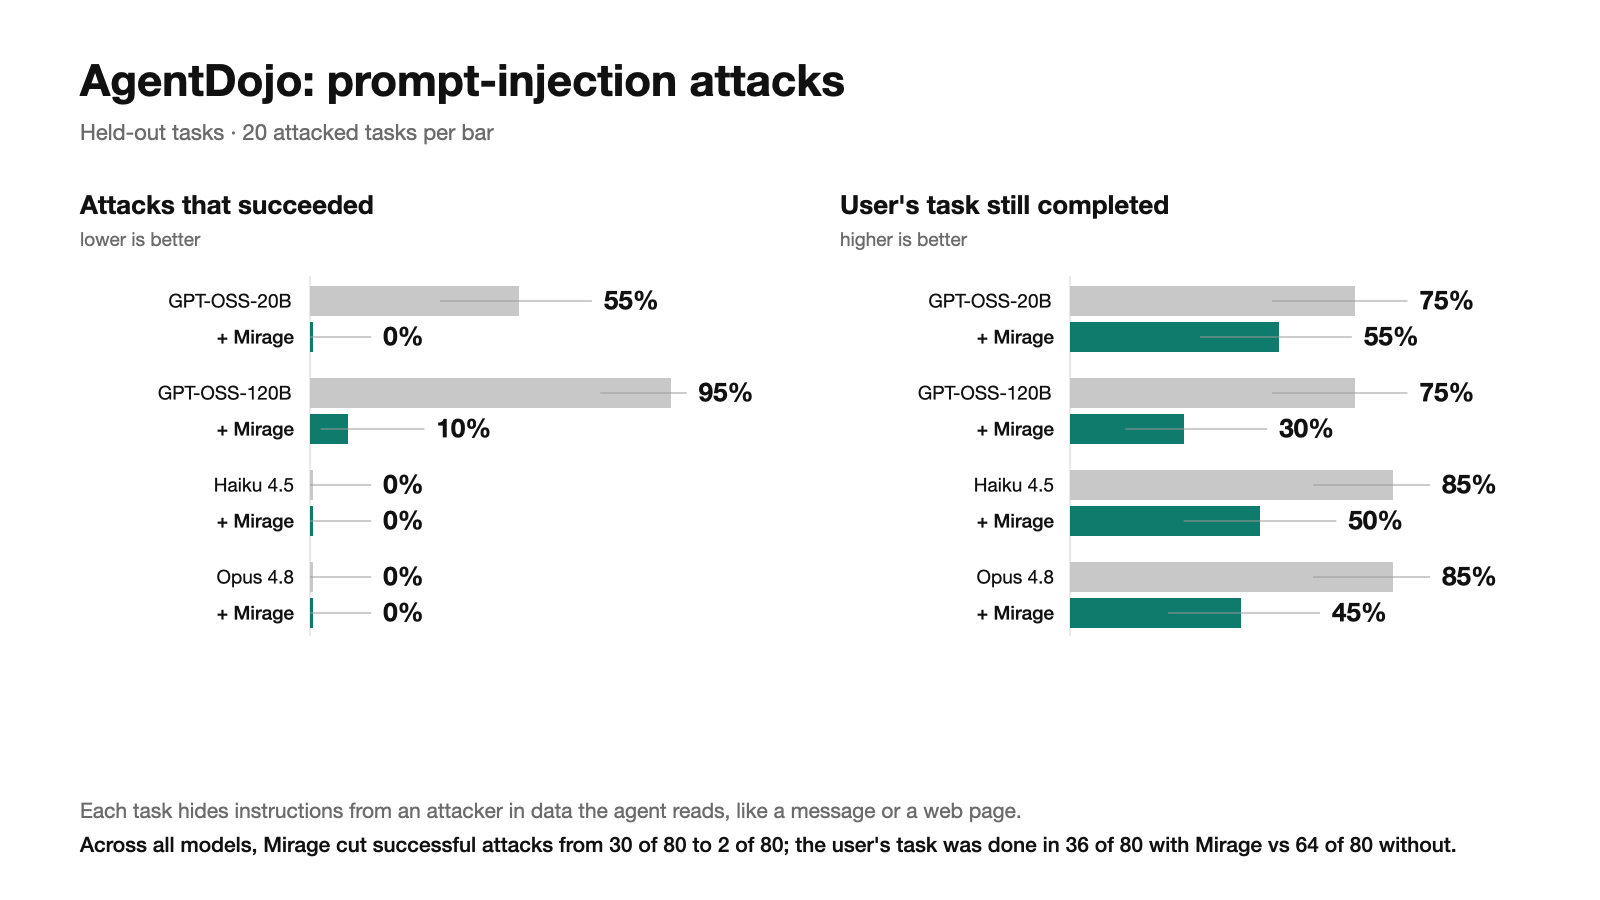
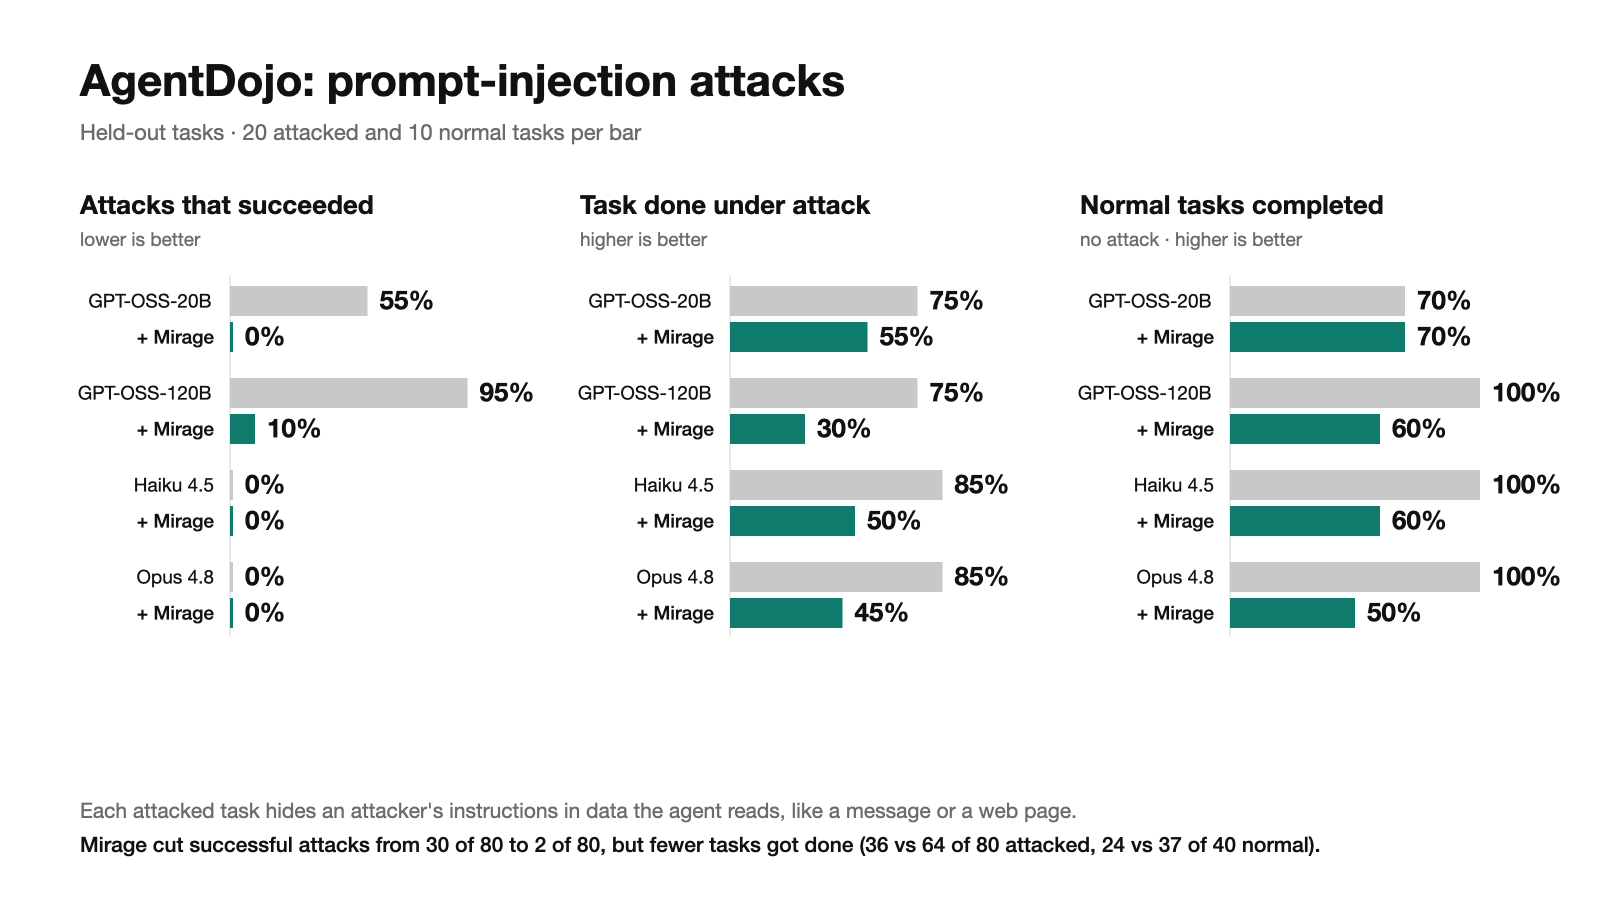
Benchmarks one-pager: three-panel AgentDojo, new 'What Mirage stopped' chart, no whiskers
Generated with [Devin](https://devin.ai)

diff --git a/benchmarks/charts_v2.py b/benchmarks/charts_v2.py
@@ -1,30 +1,23 @@
-"""Render the two v2 benchmark headline charts from saved summary JSON (reporting only).
+"""Render the v2 benchmark charts from saved summary JSON and rows (reporting only).
 
 Metrics are raw counts {"k": successes, "n": fixed denominator}; None = not run yet.
-Errors/UNKNOWN stay in n and never count as k. Whiskers are Wilson 95% intervals.
-Also writes v2-chart-source.json with every number drawn, for the doc table.
+Errors/UNKNOWN stay in n and never count as k. No error bars on the images by design;
+v2-chart-source.json keeps every number drawn.
 """
 import argparse
 from html import escape
 import json
-from math import sqrt
 from pathlib import Path
 
 from benchmarkmaxxing_charts import MODELS
 
 W, H = 1600, 900
 INK, MUTED, FAINT, BASE = "#111111", "#6b6b6b", "#a3a3a3", "#d4d4d4"
-GREY, ACCENT, WHISKER = "#c8c8c8", "#0f7b6c", "#9a9a9a"
+GREY, ACCENT = "#c8c8c8", "#0f7b6c"
 FONT = "Helvetica Neue, Helvetica, Arial, sans-serif"
 LABELS = {"openai.gpt-oss-20b-1:0": "GPT-OSS-20B", "openai.gpt-oss-120b-1:0": "GPT-OSS-120B",
           "us.anthropic.claude-haiku-4-5-20251001-v1:0": "Haiku 4.5", "us.anthropic.claude-opus-4-8": "Opus 4.8"}
 ORDER = list(LABELS)
-
-
-def wilson(k, n, z=1.96):
-    p, d = k / n, 1 + z * z / n
-    c, h = (p + z * z / (2 * n)) / d, z * sqrt(p * (1 - p) / n + z * z / (4 * n * n)) / d
-    return max(0.0, c - h), min(1.0, c + h)
 
 
 class SVG:
@@ -55,19 +48,31 @@ def frac(m):
     return f'{m["k"]}/{m["n"]}' if ok(m) else "not run"
 
 
+def sort_models(ids):
+    return sorted(ids, key=lambda m: (ORDER.index(m) if m in ORDER else 99, m))
+
+
 def bar(svg, x, bw, m, color, label, top, base):
-    """One labelled bar with a big value on top; a plain 'not run yet' when missing."""
+    """One vertical labelled bar with a big value on top; a plain 'not run yet' when missing."""
     mid, span = x + bw / 2, base - top
     if ok(m):
-        v, (lo, hi) = m["k"] / m["n"], wilson(m["k"], m["n"])
+        v = m["k"] / m["n"]
         svg.rect(x, base - v * span, bw, max(v * span, 3), color)
-        svg.line(mid, base - hi * span, mid, base - lo * span, WHISKER, 1)
-        for y in (base - hi * span, base - lo * span):
-            svg.line(mid - 5, y, mid + 5, y, WHISKER, 1)
-        svg.text(mid, base - hi * span - 16, f"{v:.0%}", 44, 600, INK, "middle")
+        svg.text(mid, base - v * span - 16, f"{v:.0%}", 44, 600, INK, "middle")
     else:
         svg.text(mid, base - 14, "not run yet", 20, 400, FAINT, "middle")
     svg.text(mid, base + 36, label, 20, 500 if color == ACCENT else 400, INK, "middle")
+
+
+def hbar(svg, x, y, bh, m, color, label, width):
+    """One horizontal bar: label on the left, value at the bar end."""
+    svg.text(x - 16, y + bh * 0.72, label, 19, 500 if color == ACCENT else 400, INK, "end")
+    if not ok(m):
+        svg.text(x + 8, y + bh * 0.72, "not run yet", 18, 400, FAINT)
+        return
+    v = m["k"] / m["n"]
+    svg.rect(x, y, max(v * width, 3), bh, color)
+    svg.text(x + max(v * width, 3) + 12, y + bh * 0.78, f"{v:.0%}", 26, 600)
 
 
 def frame(svg, title, subtitle, lines):
@@ -77,61 +82,72 @@ def frame(svg, title, subtitle, lines):
     svg.text(80, 852, lines[1], 21, 500, INK)
 
 
-def hbar(svg, x, y, bh, m, color, label, width):
-    """One horizontal bar: label on the left, value at the bar end, light Wilson whisker."""
-    svg.text(x - 16, y + bh * 0.72, label, 19, 500 if color == ACCENT else 400, INK, "end")
-    if not ok(m):
-        svg.text(x + 8, y + bh * 0.72, "not run yet", 18, 400, FAINT)
-        return
-    v, (lo, hi) = m["k"] / m["n"], wilson(m["k"], m["n"])
-    svg.rect(x, y, max(v * width, 3), bh, color)
-    mid = y + bh / 2
-    svg.line(x + lo * width, mid, x + hi * width, mid, WHISKER, 1)
-    svg.text(x + max(v * width, hi * width) + 12, y + bh * 0.78, f"{v:.0%}", 26, 600)
+def panels(svg, s, models, specs, label_w=150, width=250):
+    """Side-by-side panels of model / '+ Mirage' horizontal bar pairs, one metric each."""
+    for x0, key, head, hint in specs:
+        svg.text(x0, 214, head, 26, 600)
+        svg.text(x0, 246, hint, 19, 400, MUTED)
+        y, bx = 286, x0 + label_w
+        svg.line(bx, y - 10, bx, y + len(models) * 92 - 18)
+        for model in models:
+            hbar(svg, bx, y, 30, s[model].get("unprotected", {}).get(key), GREY, LABELS.get(model, model), width)
+            hbar(svg, bx, y + 36, 30, s[model].get("gate", {}).get(key), ACCENT, "+ Mirage", width)
+            y += 92
+        if not models:
+            svg.text(bx + 8, y + 22, "not run yet", 20, 400, FAINT)
+
+
+def pooled(s, arm, key):
+    ms = [m[arm][key] for m in s.values() if ok(m.get(arm, {}).get(key))]
+    return sum(m["k"] for m in ms), sum(m["n"] for m in ms)
 
 
 def agentdojo(data, out):
     splits = data.get("splits", {})
     held = "held_out" in splits
     s = splits.get("held_out") or splits.get("dev") or {}
-    models = sorted(s, key=lambda m: (ORDER.index(m) if m in ORDER else 99, m))
-    ns = sorted({a[k]["n"] for m in s.values() for a in m.values() for k in ("attacker_success",) if ok(a.get(k))})
-    svg = SVG()
+    models = sort_models(s)
+    na = sorted({a["attacker_success"]["n"] for m in s.values() for a in m.values() if ok(a.get("attacker_success"))})
+    nc = sorted({a["clean_utility"]["n"] for m in s.values() for a in m.values() if ok(a.get("clean_utility"))})
     where = "Held-out tasks" if held else "Tuning tasks only (held-out run not in yet)"
-    per = (f"{ns[0]}" if len(ns) == 1 else f"{ns[0]}–{ns[-1]}") + " attacked tasks per bar" if ns else "results not in yet"
+    per = (f"{'–'.join(map(str, sorted({na[0], na[-1]})))} attacked and {'–'.join(map(str, sorted({nc[0], nc[-1]})))} "
+           "normal tasks per bar") if na and nc else "results not in yet"
+    (a, an), (b, bn) = pooled(s, "unprotected", "attacker_success"), pooled(s, "gate", "attacker_success")
+    (c, cn), (d, dn) = pooled(s, "unprotected", "utility_under_attack"), pooled(s, "gate", "utility_under_attack")
+    (e, en), (f, fn) = pooled(s, "unprotected", "clean_utility"), pooled(s, "gate", "clean_utility")
+    result = (f"Mirage cut successful attacks from {a} of {an} to {b} of {bn}, but fewer tasks got done "
+              f"({d} vs {c} of {cn} attacked, {f} vs {e} of {en} normal).") if an and bn else "Not all results are in yet."
+    svg = SVG()
     frame(svg, "AgentDojo: prompt-injection attacks", f"{where} · {per}",
-          ["Each task hides instructions from an attacker in data the agent reads, like a message or a web page.",
-           result_line(s)])
-    for x0, key, head, hint in [(80, "attacker_success", "Attacks that succeeded", "lower is better"),
-                                (840, "utility_under_attack", "User's task still completed", "higher is better")]:
-        svg.text(x0, 214, head, 26, 600)
-        svg.text(x0, 246, hint, 19, 400, MUTED)
-        y, bx, width = 286, x0 + 230, 380
-        svg.line(bx, y - 10, bx, y + len(models) * 92 - 18)
-        for model in models:
-            label = LABELS.get(model, model)
-            hbar(svg, bx, y, 30, s[model].get("unprotected", {}).get(key), GREY, label, width)
-            hbar(svg, bx, y + 36, 30, s[model].get("gate", {}).get(key), ACCENT, "+ Mirage", width)
-            y += 92
-        if not models:
-            svg.text(bx + 8, y + 22, "not run yet", 20, 400, FAINT)
+          ["Each attacked task hides an attacker's instructions in data the agent reads, like a message or a web page.",
+           result])
+    panels(svg, s, models, [(80, "attacker_success", "Attacks that succeeded", "lower is better"),
+                            (580, "utility_under_attack", "Task done under attack", "higher is better"),
+                            (1080, "clean_utility", "Normal tasks completed", "no attack · higher is better")])
     svg.save(out / "agentdojo-v2-headline.svg", "AgentDojo prompt-injection attacks, with and without Mirage")
 
 
-def result_line(s):
-    tot = {(arm, k): [0, 0] for arm in ("unprotected", "gate") for k in ("attacker_success", "utility_under_attack")}
-    for model in s.values():
-        if not all(ok(model.get(arm, {}).get("attacker_success")) for arm in ("unprotected", "gate")):
-            continue
-        for (arm, k), t in tot.items():
-            t[0] += model[arm][k]["k"]; t[1] += model[arm][k]["n"]
-    (a, an), (b, bn) = tot["unprotected", "attacker_success"], tot["gate", "attacker_success"]
-    (c, cn), (d, dn) = tot["unprotected", "utility_under_attack"], tot["gate", "utility_under_attack"]
-    if not an:
-        return "Both arms are not in yet, so there is no comparison to read."
-    who = "Across all models" if len(s) > 1 else "With Mirage"
-    return (f"{who}, Mirage cut successful attacks from {a} of {an} to {b} of {bn}; "
-            f"the user's task was done in {d} of {dn} with Mirage vs {c} of {cn} without.")
+def stops(data, out):
+    s = data.get("stops", {})
+    models = sort_models(s)
+    svg = SVG()
+    frame(svg, "What Mirage stopped", "Held-out AgentDojo tasks, run with Mirage",
+          ["Share of tasks where Mirage stopped at least one of the agent's actions.",
+           "Almost every stop comes from one rule: the action used a link or address the user never gave."])
+    for x0, key, head, color in [(80, "attack", "Attacked tasks stopped", ACCENT),
+                                 (840, "clean", "Normal tasks wrongly stopped", GREY)]:
+        n = sorted({m[key]["n"] for m in s.values() if ok(m.get(key))})
+        hint = f"of {'–'.join(map(str, sorted({n[0], n[-1]})))} {'attacked' if key == 'attack' else 'normal'} tasks per model" if n else ""
+        svg.text(x0, 214, head, 26, 600)
+        svg.text(x0, 246, hint, 19, 400, MUTED)
+        y, bx = 300, x0 + 170
+        svg.line(bx, y - 14, bx, y + len(models) * 100 - 30)
+        for model in models:
+            hbar(svg, bx, y, 44, s[model].get(key), color, LABELS.get(model, model), 400)
+            y += 100
+        if not models:
+            svg.text(bx + 8, y + 22, "not run yet", 20, 400, FAINT)
+    svg.save(out / "agentdojo-v2-stops.svg", "What Mirage stopped on held-out AgentDojo tasks")
 
 
 def agentrx(data, out):
@@ -143,12 +159,12 @@ def agentrx(data, out):
     svg = SVG()
     frame(svg, "AgentRx: finding where a failed agent run went wrong",
           f"{where} · higher is better · {n} failed runs per bar" if n else f"{where} · results not in yet",
-          ["Each case is a recorded agent run that failed; the model must name the exact step where it broke (no answer = miss).",
+          ["Each case is a recorded agent run that failed; the model must name the step where it broke (no answer = miss).",
            f"Broken step found: {found}." if found else "No results are in yet."])
     top, base = 260, 700
     svg.line(80, base, 1520, base)
     for j, x in enumerate(models[:2]):
-        for i, (key, color, label) in enumerate([("simple", GREY, x["label"]), ("assisted", ACCENT, x["label"] + " + Mirage")]):
+        for i, (key, color, label) in enumerate([("simple", GREY, x["label"]), ("assisted", ACCENT, "+ Mirage")]):
             bar(svg, 150 + j * 720 + i * 290, 220, x.get(key), color, label, top, base)
     if not models:
         svg.text(W / 2, (top + base) / 2, "not run yet", 28, 400, FAINT, "middle")
@@ -159,8 +175,9 @@ def load(path):
     return json.loads(path.read_text()) if path and path.exists() else {}
 
 
-def from_agentdojo(raw, path):
-    """W1 summary: {"<dev|heldout>/[<model_id>/]<arm>": {"attack": {n, attacker_success, utility}, "clean": {n, utility}}}."""
+def from_agentdojo(raw, path, rows_dir):
+    """W1 summary: {"<dev|heldout>/[<model_id>/]<arm>": {"attack": {n, attacker_success, utility}, "clean": {n, utility}}}.
+    Stops are recomputed from held-out gate rows: a task counts as stopped when its blocked list is non-empty."""
     splits = {}
     for key, s in raw.items():
         parts = key.split("/")
@@ -173,7 +190,17 @@ def from_agentdojo(raw, path):
             "utility_under_attack": {"k": a.get("utility", 0), "n": a.get("n", 0)},
             "clean_utility": {"k": c.get("utility", 0), "n": c.get("n", 0)},
             "unknown": s.get("unknown"), "blocks": s.get("blocks"), "false_blocks": c.get("false_blocks")}
-    return {"splits": splits, "source": str(path)}
+    stops, rules = {}, {}
+    for p in sorted(rows_dir.glob("heldout__*_rows.jsonl")):
+        for row in map(json.loads, filter(str.strip, p.read_text().splitlines())):
+            if row["arm"] != "gate":
+                continue
+            m = stops.setdefault(row["model_id"], {}).setdefault(row["cohort"], {"k": 0, "n": 0})
+            m["n"] += 1
+            m["k"] += bool(row.get("blocked"))
+            for rule in row.get("blocked") or []:
+                rules[str(rule)] = rules.get(str(rule), 0) + 1
+    return {"splits": splits, "stops": stops, "stop_rules": rules, "source": str(path), "rows": str(rows_dir)}
 
 
 def from_agentrx(raw, path):
@@ -194,16 +221,20 @@ def from_agentrx(raw, path):
 def main():
     p = argparse.ArgumentParser(description=__doc__)
     p.add_argument("--agentdojo", type=Path, default=Path("docs/benchmarkmaxxing/v2-inputs/agentdojo_v2_summary.json"))
+    p.add_argument("--agentdojo-rows", type=Path, default=Path("benchmarks/artifacts/agentdojo_v2"))
     p.add_argument("--agentrx", type=Path, default=Path("docs/benchmarkmaxxing/v2-inputs/agentrx_v3_summary.json"))
     p.add_argument("--output", type=Path, default=Path("docs/benchmarkmaxxing"))
     a = p.parse_args()
-    lo, hi = wilson(0, 10)
-    assert lo == 0 and 0.27 < hi < 0.28 and wilson(5, 10)[0] < 0.5 < wilson(5, 10)[1]
-    dojo, rx = from_agentdojo(load(a.agentdojo), a.agentdojo), from_agentrx(load(a.agentrx), a.agentrx)
+    dojo = from_agentdojo(load(a.agentdojo), a.agentdojo, a.agentdojo_rows)
+    rx = from_agentrx(load(a.agentrx), a.agentrx)
+    for model, s in dojo["stops"].items():  # rows and summary must describe the same fixed task set
+        held = dojo["splits"].get("held_out", {}).get(model, {}).get("gate", {})
+        assert not held or (s["attack"]["n"], s["clean"]["n"]) == (held["attacker_success"]["n"], held["clean_utility"]["n"]), model
     agentdojo(dojo, a.output)
+    stops(dojo, a.output)
     agentrx(rx, a.output)
     (a.output / "v2-chart-source.json").write_text(json.dumps({"agentdojo": dojo, "agentrx": rx}, indent=2) + "\n")
-    print(json.dumps({"agentdojo": dojo, "agentrx": rx}))
+    print(json.dumps({"stops": dojo["stops"], "stop_rules": dojo["stop_rules"]}))
 
 
 if __name__ == "__main__":

diff --git a/docs/BENCHMARKS.md b/docs/BENCHMARKS.md
@@ -1,0 +1,27 @@
+# Mirage benchmarks
+
+We tested whether Mirage stops AI agents from being hijacked by instructions hidden in the data they read, and what that costs in work done.
+We ran the public AgentDojo prompt-injection benchmark (Slack suite, held-out tasks, run once with a frozen setup) and the AgentRx failure-diagnosis benchmark.
+Four models: GPT-OSS-20B, GPT-OSS-120B, Claude Haiku 4.5 and Claude Opus 4.8 (AgentRx: GPT-OSS-20B and Haiku 4.5).
+
+![AgentDojo prompt-injection attacks, with and without Mirage](benchmarkmaxxing/agentdojo-v2-headline.png)
+
+Mirage cut successful attacks from 30 of 80 to 2 of 80; the two models that fell for attacks (GPT-OSS-20B and 120B) went from 11 and 19 of 20 to 0 and 2.
+The cost: fewer tasks got done, both under attack (36 vs 64 of 80) and on normal tasks (24 vs 37 of 40).
+
+![What Mirage stopped on held-out AgentDojo tasks](benchmarkmaxxing/agentdojo-v2-stops.png)
+
+Mirage stopped 35–85% of attacked tasks, but also 20–50% of normal tasks.
+Almost every stop comes from one rule: the action used a link or address the user never gave.
+
+![AgentRx: finding where a failed agent run went wrong, with and without Mirage](benchmarkmaxxing/agentrx-v3-critical-step.png)
+
+Mirage's evidence helped GPT-OSS-20B find the broken step more often (2 → 3 of 6) but hurt Haiku 4.5 (3 → 0 of 6).
+Six runs per bar is small: read this as a direction, not proof.
+
+## What's next
+
+- Turn the untrusted-link rule from a hard stop into pause → sandbox check → auto-release if harmless, and measure it on fresh, untouched tasks.
+- Extend beyond the Slack suite to the other AgentDojo suites.
+
+Details, exact counts and intervals: [benchmark progress notes](BENCHMARKMAXXING_PROGRESS.md).

diff --git a/docs/BENCHMARKMAXXING_PROGRESS.md b/docs/BENCHMARKMAXXING_PROGRESS.md
@@ -8,11 +8,15 @@ Honest headline: Mirage stops prompt-injection attacks on models that are vulner
 
 ![AgentDojo prompt-injection attacks, with and without Mirage](benchmarkmaxxing/agentdojo-v2-headline.png)
 
+![What Mirage stopped on held-out AgentDojo tasks](benchmarkmaxxing/agentdojo-v2-stops.png)
+
+Stops (held-out gate rows with a non-empty `blocked` list; attacked / normal): GPT-OSS-20B 12/20, 2/10; GPT-OSS-120B 17/20, 4/10; Haiku 4.5 7/20, 4/10; Opus 4.8 7/20, 5/10. Block reasons across all 82 blocked calls: `UNTRUSTED_PROVENANCE` 78, `DEST_NOT_ALLOWED` 4. Rows: W1 commit `32d6b7d` (`benchmarks/artifacts/agentdojo_v2/heldout__*_rows.jsonl`, PR #198).
+
 ![AgentRx: finding the step where a failed agent run broke, with and without Mirage evidence](benchmarkmaxxing/agentrx-v3-critical-step.png)
 
 ### Numbers behind the charts
 
-Fixed denominators: every error, crash or unanswered case stays in n and counts as a failure. Ranges are Wilson 95% intervals (also the light whiskers on the charts). The dev split was used to tune the gate; held-out was run once with the frozen config and is the one charted.
+Fixed denominators: every error, crash or unanswered case stays in n and counts as a failure. Ranges are Wilson 95% intervals. The dev split was used to tune the gate; held-out was run once with the frozen config and is the one charted.
 
 | AgentDojo split | Model | Arm | Attack success ↓ | Task done under attack ↑ | Task done, no attack ↑ | Errors/UNKNOWN, all tasks (counted as fail) | Gate blocks |
 |---|---|---|---|---|---|---:|---:|
